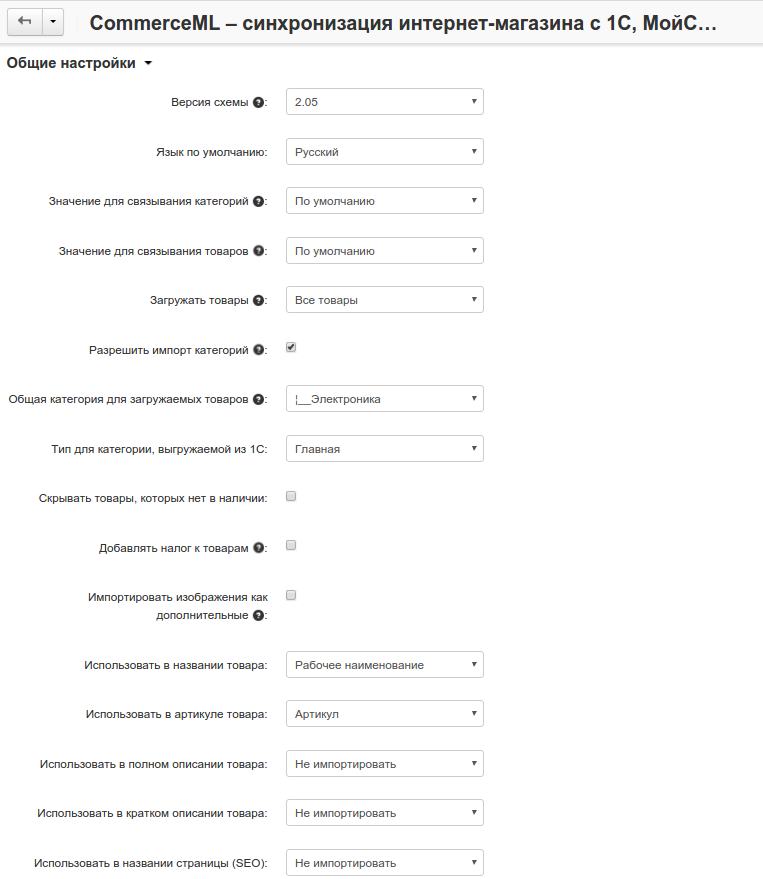
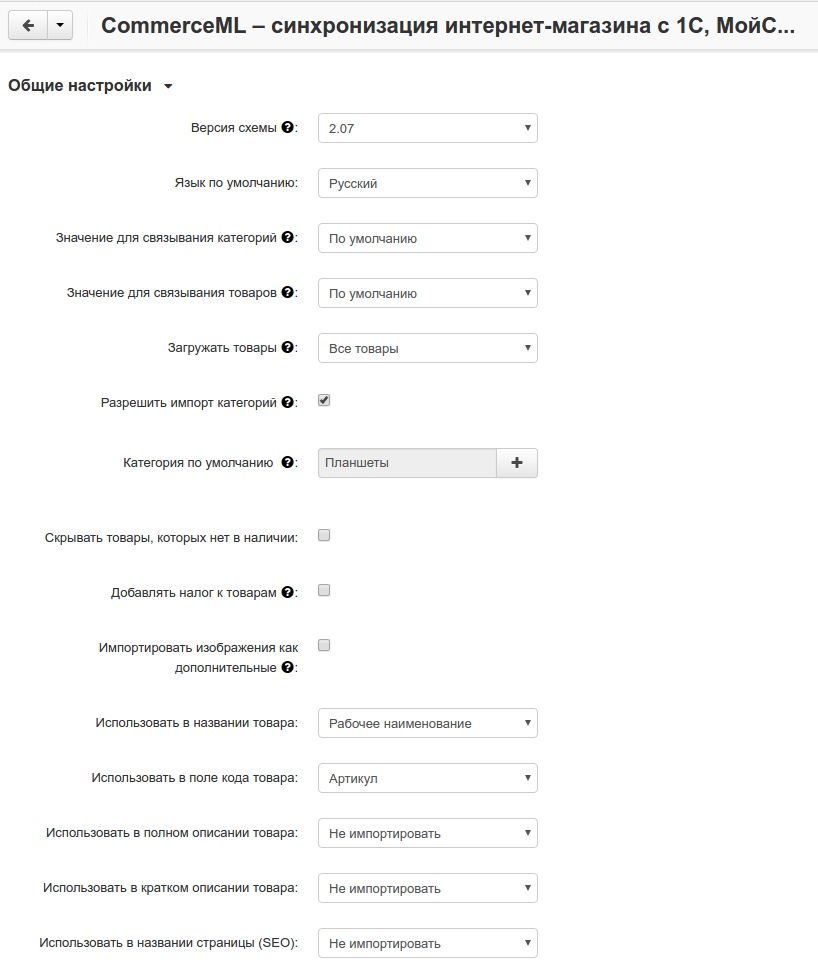
Ru: User Guide: CommerceML: Screenshots and descriptions updated.

diff --git a/ru/user_guide/addons/commerceml/moy_sklad/index.rst b/ru/user_guide/addons/commerceml/moy_sklad/index.rst
@@ -130,23 +130,37 @@
 
         -   Настройка определяющая какой язык будет использоваться для записи данных.
 
+    *   -   Значение для связывания категорий
+
+        -   Поле, по которому будет выполнятся связывание категорий
+
+    *   -   Значение для связывания товаров
+
+        -   Поле, по которому будет выполнятся связывание товаров
+
+    *   -   Загружать товары
+
+        -   Параметр определяющий какие товары будут загружаться в магазин:
+
+            *   Все товары
+
+            *   Новые товары
+
+            *   Новые товары и все цены товаров
+
+            *   Только обновление товаров
+
+            *   Не загружать
+
     *   -   Разрешить импорт категорий
 
         -   Параметр, определяющий будут ли загружаться группы из "МойСклад". Если данная настройка отключена, то товары будут записаны в категорию указанную в настройке "Общая категория для товаров".
 
-    *   -   Общая категория для товаров
+    *   -   Категория по умолчанию
 
-        -   Категория в которую будут добавлены товары из "МойСклад", если настройка "Разрешить импорт из" выключена.
+        -   Категория в которую будут добавлены новые товары из "МойСклад", если настройка "Разрешить импорт категорий" выключена.
 
-    *   -   Тип для категории выгружаемой
-
-        -   Тип присваиваемой категории выгружаемой из "МойСклад":
-
-            *   Главная
-
-            *   Дополнительная
-
-    *   -   Скрывать товары, которых нет в наличие
+    *   -   Скрывать товары, которых нет в наличии
 
         -   Автоматически присваивает товарам статус "Скрыто", если количество товара равно 0.
 

diff --git a/ru/user_guide/addons/commerceml/class365/index.rst b/ru/user_guide/addons/commerceml/class365/index.rst
@@ -133,11 +133,11 @@
 
     *   -   Значение для связывания категорий
 
-        -   Поле по которому будет выполнятся связывание категорий
+        -   Поле, по которому будет выполнятся связывание категорий
 
     *   -   Значение для связывания товаров
 
-        -   Поле по которому будет выполнятся связывание товаров
+        -   Поле, по которому будет выполнятся связывание товаров
 
     *   -   Загружать товары
 
@@ -157,19 +157,11 @@
 
         -   Параметр, определяющий будут ли загружаться группы из "Class365". Если данная настройка отключена, то товары будут записаны в категорию указанную в настройке "Общая категория для товаров".
 
-    *   -   Общая категория для товаров
+    *   -   Категория по умолчанию
 
-        -   Категория в которую будут добавлены товары из "Class365", если настройка "Разрешить импорт категорий" выключена.
+        -   Категория в которую будут добавлены новые товары из "Class365", если настройка "Разрешить импорт категорий" выключена.
 
-    *   -   Тип для категории выгружаемой
-
-        -   Тип присваиваемой категории выгружаемой из "Class365":
-
-            *   Главная
-
-            *   Дополнительная
-
-    *   -   Скрывать товары, которых нет в наличие
+    *   -   Скрывать товары, которых нет в наличии
 
         -   Автоматически присваивает товарам статус "Скрыто", если количество товара равно 0.
 

diff --git a/ru/user_guide/addons/commerceml/1c/instruction/ut11/index.rst b/ru/user_guide/addons/commerceml/1c/instruction/ut11/index.rst
@@ -306,11 +306,11 @@
 
     *   -   Значение для связывания категорий
 
-        -   Значение используемое для связывания категорий.
+        -   Значение, используемое для связывания категорий.
 
     *   -   Значение для связывания товаров
 
-        -   Значение используемое для связывания товаров.
+        -   Значение, используемое для связывания товаров.
 
     *   -   Загружать товары
 
@@ -324,7 +324,7 @@
 
         -   Категория в которую будут добавлены новые товары из 1С, если настройка "Разрешить импорт категорий" выключена.
 
-    *   -   Скрывать товары, которых нет в наличие
+    *   -   Скрывать товары, которых нет в наличии
 
         -   Автоматически присваивает товарам статус "Скрыто", если количество товара равно 0.
 

diff --git a/ru/user_guide/addons/commerceml/1c/instruction/ut10/index.rst b/ru/user_guide/addons/commerceml/1c/instruction/ut10/index.rst
@@ -186,7 +186,7 @@
 
         -   Категория в которую будут добавлены новые товары из 1С, если настройка "Разрешить импорт категорий" выключена.
 
-    *   -   Скрывать товары, которых нет в наличие
+    *   -   Скрывать товары, которых нет в наличии
 
         -   Автоматически присваивает товарам статус "Скрыто", если количество товара равно 0.
 
